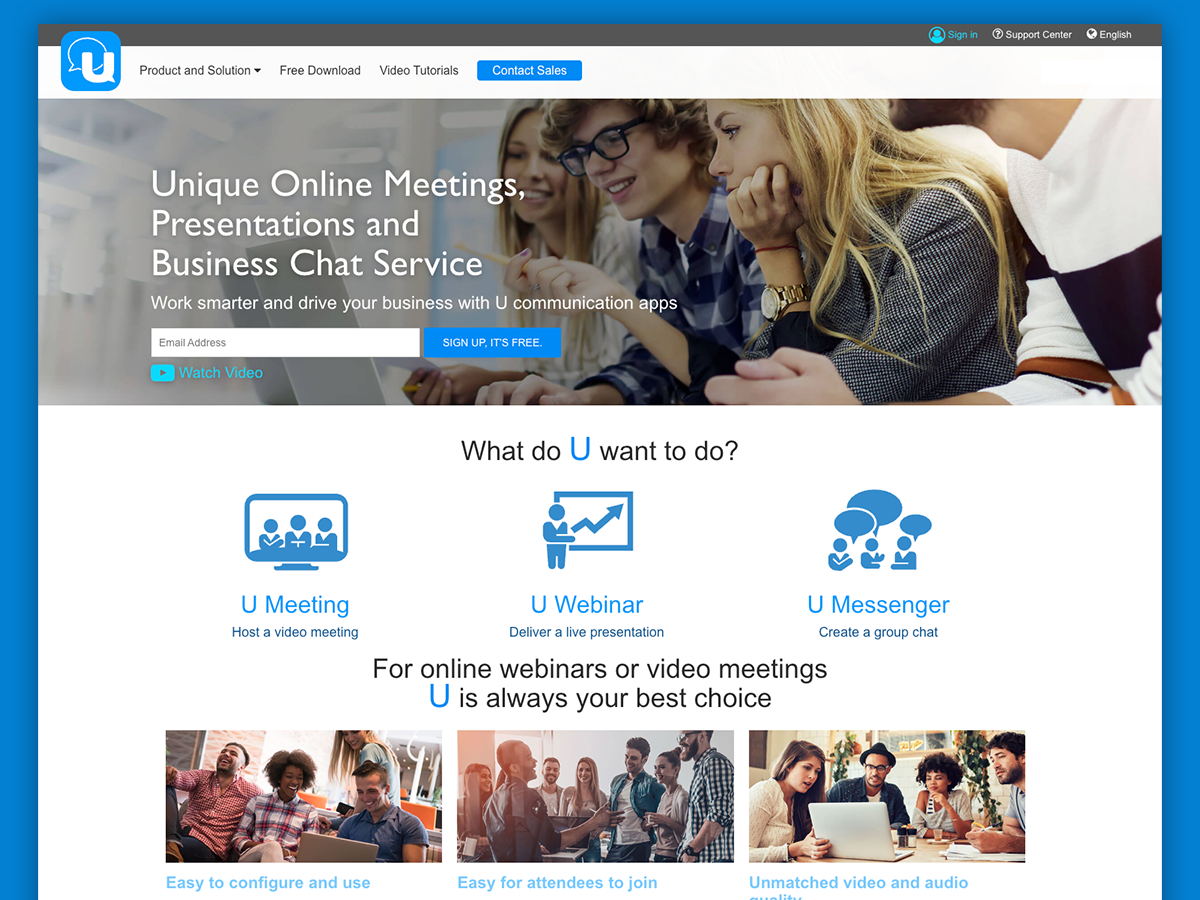
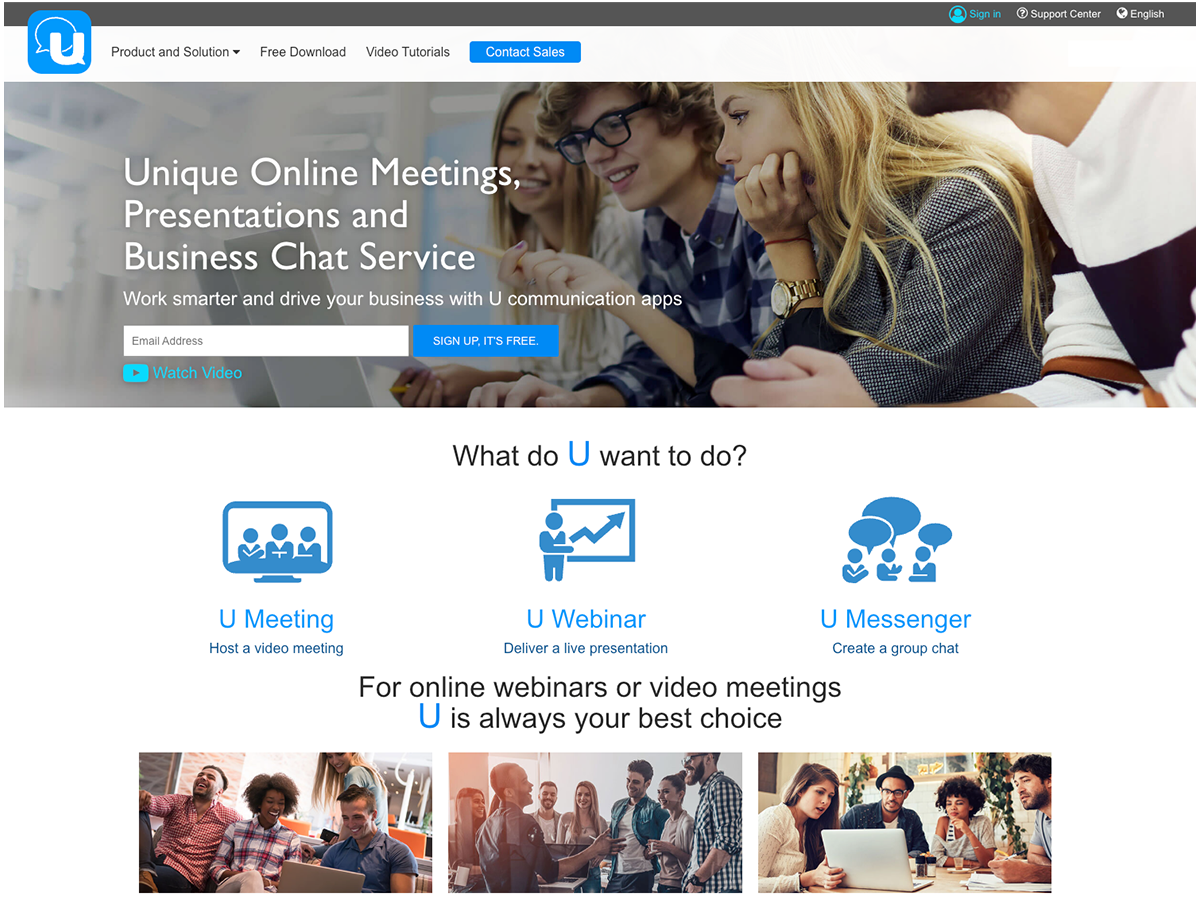
update

diff --git a/index.htm b/index.htm
@@ -317,7 +317,15 @@ function scrollFunction() {
   <div class="two-column pdr-column pdr-center txt-align-l work-card">	
 	<ul class="ul-class">
 	  <li class="pdr-vid">
-		<img class="lazyload" src="images/recent_projects/1200x720-u.webp" alt="" />
+		<div class="flexslider">
+          <ul class="slides">
+            <li>
+				<img class="lazyload" src="images/recent_projects/1200x720-u.webp" /></li>
+			<li>
+  	    	    <img class="lazyload" src="images/recent_projects/1200x720-u-page.webp" /></li>
+          </ul>
+        </div>
+		
 	  </li>	
 	  <li class="pdr-txt ">
 		<h3>U Communication Suite<br>Meeting / Webinar / Messenger</h3>
@@ -413,7 +421,7 @@ function scrollFunction() {
 		<!-- <div class="btn-area"><a href="" class="btn">Download for Free</a></div> -->
 	  </li>
   	  <li class="pdr-vid ">
-				<div class="flexslider">
+		<div class="flexslider">
           <ul class="slides">
             <li>
 				<img class="lazyload" src="images/recent_projects/1200x720-vl.webp" /></li>
@@ -457,7 +465,7 @@ function scrollFunction() {
 					</div> -->
 				
 					<div class="round-holder-block swiper-slide">
-						<img class="lazyload" src="images/old_projects/852x560-pdvd.png" alt="" />
+						<img class="lazyload" src="images/old_projects/852x560-pdvd.webp" alt="" />
 						<h3 class="pdr-txt">
 							CyberLink PowerDVD</br>
 							Product Page
@@ -465,7 +473,7 @@ function scrollFunction() {
 					</div>
 				
 					<div class="round-holder-block swiper-slide">
-						<img class="lazyload" src="images/old_projects/852x560-cloud.png" alt="" />
+						<img class="lazyload" src="images/old_projects/852x560-cloud.webp" alt="" />
 						<h3 class="pdr-txt">
 							CyberLink Cloud </br>
 							Web UI Design
@@ -473,25 +481,25 @@ function scrollFunction() {
 					</div>
 				
 					<div class="round-holder-block swiper-slide">
-						<img class="lazyload" src="images/old_projects/852x560-7select.png" alt="" />
+						<img class="lazyload" src="images/old_projects/852x560-7select.webp" alt="" />
 						<h3 class="pdr-txt">
 							7-ELEVEN Design</br>
-							Campaign Landing Page
+							<a href="https://www.webaward.org/winner/10257/agenda-taiwan-ltd-wins-2008-webaward-for-7-eleven-design.html" target="_blank" style="color: #12e7ff;">WebAward Winner <i class="fas fa-link"></i></a>
 						</h3>
 						<a href="https://www.webaward.org/winner/10257/agenda-taiwan-ltd-wins-2008-webaward-for-7-eleven-design.html" target="_blank"><div class="award-badge"><img src="images/web-award.png" alt="" /></div></a>
 					</div>
 
 					<div class="round-holder-block swiper-slide">
-					  	<img class="lazyload" src="images/old_projects/852x560-ikea.png" alt="" />
+					  	<img class="lazyload" src="images/old_projects/852x560-ikea.webp" alt="" />
 						<h3 class="pdr-txt">
 							IKEA Sleep Well</br>
-							Campaign Landing Page
+							<a href="https://www.webaward.org/winner/12603/agenda-taiwan-limited-wins-2009-webaward-for-ikea-sleep-well-campaign.html" target="_blank" style="color: #12e7ff;">WebAward Winner <i class="fas fa-link"></i></a>
 						</h3>
 						<a href="https://www.webaward.org/winner/12603/agenda-taiwan-limited-wins-2009-webaward-for-ikea-sleep-well-campaign.html" target="_blank"><div class="award-badge"><img src="images/web-award.png" alt="" /></div></a>
 					</div>
 				
 					<div class="round-holder-block swiper-slide">
-						<img class="lazyload" src="images/old_projects/852x560-coca.png" alt="" />
+						<img class="lazyload" src="images/old_projects/852x560-coca.webp" alt="" />
 						<h3 class="pdr-txt">
 							Coca-Cola Olympics</br>
 							Campaign Landing Page
@@ -499,7 +507,7 @@ function scrollFunction() {
 					</div>
 				
 					<div class="round-holder-block swiper-slide">
-					  	<img class="lazyload" src="images/old_projects/852x560-tiida.png" alt="" />
+					  	<img class="lazyload" src="images/old_projects/852x560-tiida.webp" alt="" />
 						<h3 class="pdr-txt">
 							Nissan Mr. Tiida</br>
 							Campaign Landing Page
@@ -515,7 +523,7 @@ function scrollFunction() {
 					</div> -->
 				
 					<div class="round-holder-block swiper-slide">
-						<img class="lazyload"src="images/old_projects/852x560-gorgeous.png" alt="" />
+						<img class="lazyload"src="images/old_projects/852x560-gorgeous.webp" alt="" />
 						<h3 class="pdr-txt">
 							Jaguar Prefer Gorgeous </br>
 							Campaign Landing Page
@@ -523,7 +531,7 @@ function scrollFunction() {
 					</div>
 				
 					<div class="round-holder-block swiper-slide">
-						<img class="lazyload" src="images/old_projects/852x560-chf.png" alt="" />
+						<img class="lazyload" src="images/old_projects/852x560-chf.webp" alt="" />
 						<h3 class="pdr-txt">
 							Children's Health Fund</br>
 							Official Website
@@ -531,7 +539,7 @@ function scrollFunction() {
 					</div>
 				
 					<div class="round-holder-block swiper-slide">
-					  	<img class="lazyload" src="images/old_projects/852x560-c30.png" alt="" />
+					  	<img class="lazyload" src="images/old_projects/852x560-c30.webp" alt="" />
 						<h3 class="pdr-txt">
 							Volvo All New C30</br>
 							Campaign Landing Page
@@ -539,7 +547,7 @@ function scrollFunction() {
 					</div>
 				
 					<div class="round-holder-block swiper-slide">
-					  	<img class="lazyload" src="images/old_projects/852x560-schwab.png" alt="" />
+					  	<img class="lazyload" src="images/old_projects/852x560-schwab.webp" alt="" />
 						<h3 class="pdr-txt">
 							Charles Schwab Testimonials</br>
 							Campaign Landing Page
@@ -563,7 +571,7 @@ function scrollFunction() {
 					</div> -->
 				
 					<div class="round-holder-block swiper-slide">
-						<img class="lazyload"src="images/old_projects/852x560-commix.png" alt="" />
+						<img class="lazyload"src="images/old_projects/852x560-commix.webp" alt="" />
 						<h3 class="pdr-txt">
 							 Graduate Thesis Project - Commix</br>
 							Interactive Platform
@@ -571,7 +579,7 @@ function scrollFunction() {
 					</div>
 				
 					<div class="round-holder-block swiper-slide">
-					  	<img class="lazyload" src="images/old_projects/852x560-myc.png" alt="" />
+					  	<img class="lazyload" src="images/old_projects/852x560-myc.webp" alt="" />
 						<h3 class="pdr-txt">
 							Academic Personal Portfolio</br>
 							Web Page

diff --git a/css/messenger-styles.css b/css/messenger-styles.css
@@ -98,7 +98,7 @@
 
 .answer .message-bubble {
     background: #dedede;
-    color: #333;
+    color: #111111;
     font-weight: 300;
     border-bottom-left-radius: 5px;
 }

diff --git a/css/main_new.css b/css/main_new.css
@@ -3738,9 +3738,7 @@ a .share-block:hover{
 	margin: 0;
 }
 	
-.intro-temp .pdr-txt a {
-	 font-size: 16px;
-}	
+
 }
 
 @media (min-width: 961px) {
